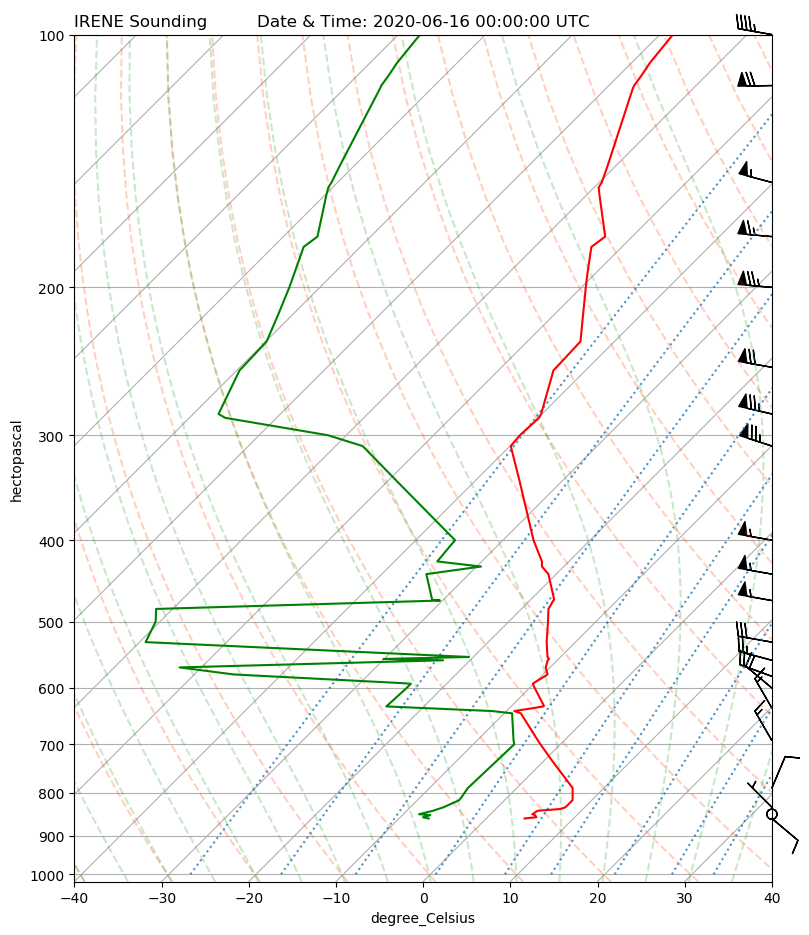
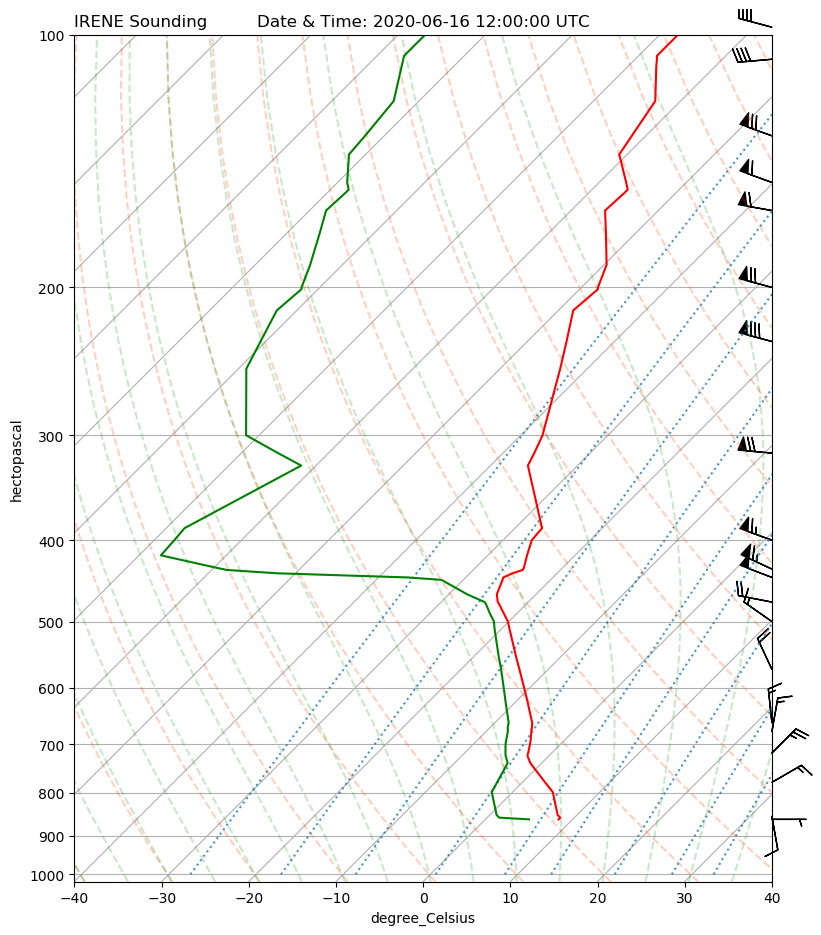
latest Irene sounding

diff --git a/sounding/Irene_real_time_Skew-T_Analysis.py b/sounding/Irene_real_time_Skew-T_Analysis.py
@@ -10,7 +10,7 @@ from siphon.simplewebservice.wyoming import WyomingUpperAir
 # Plan to soft code these variables in future updates, 
 
 # to make it easy to access any station in South Africa for any given time
-dt = datetime(2020, 6, 16, 0)
+dt = datetime(2020, 6, 16, 12)
 station = 'FAIR'
 
 # Grab remote data from server at the University of Wyoming. This requires internet connection.
